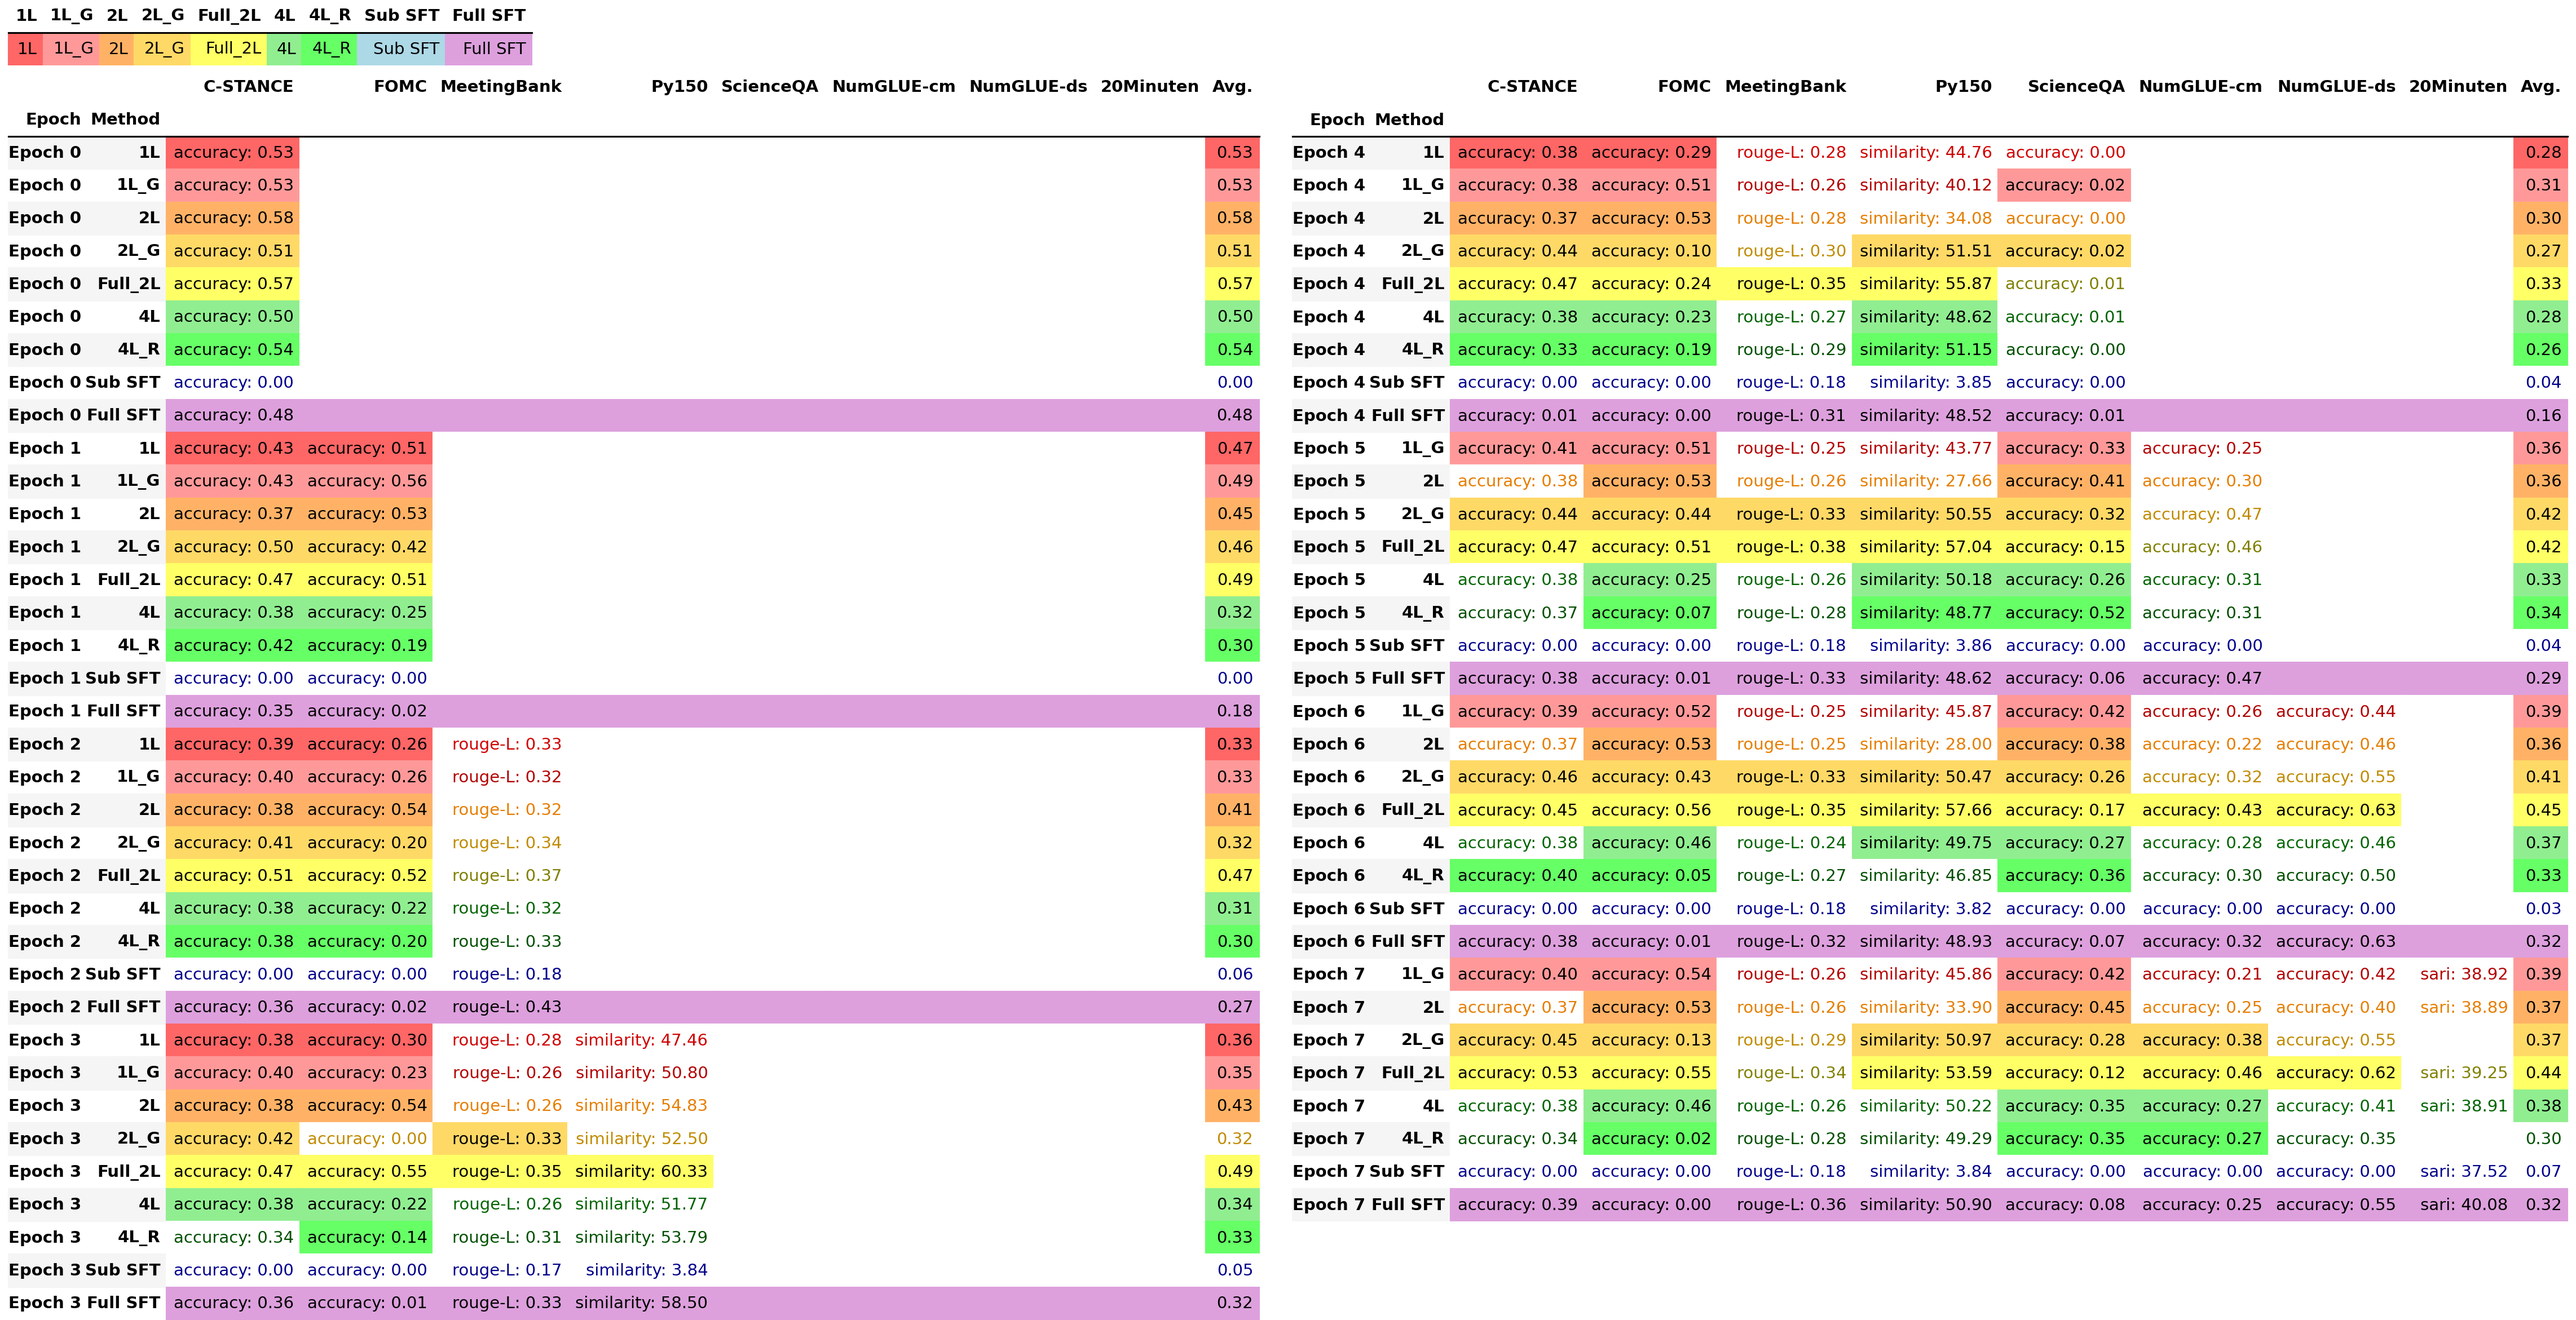
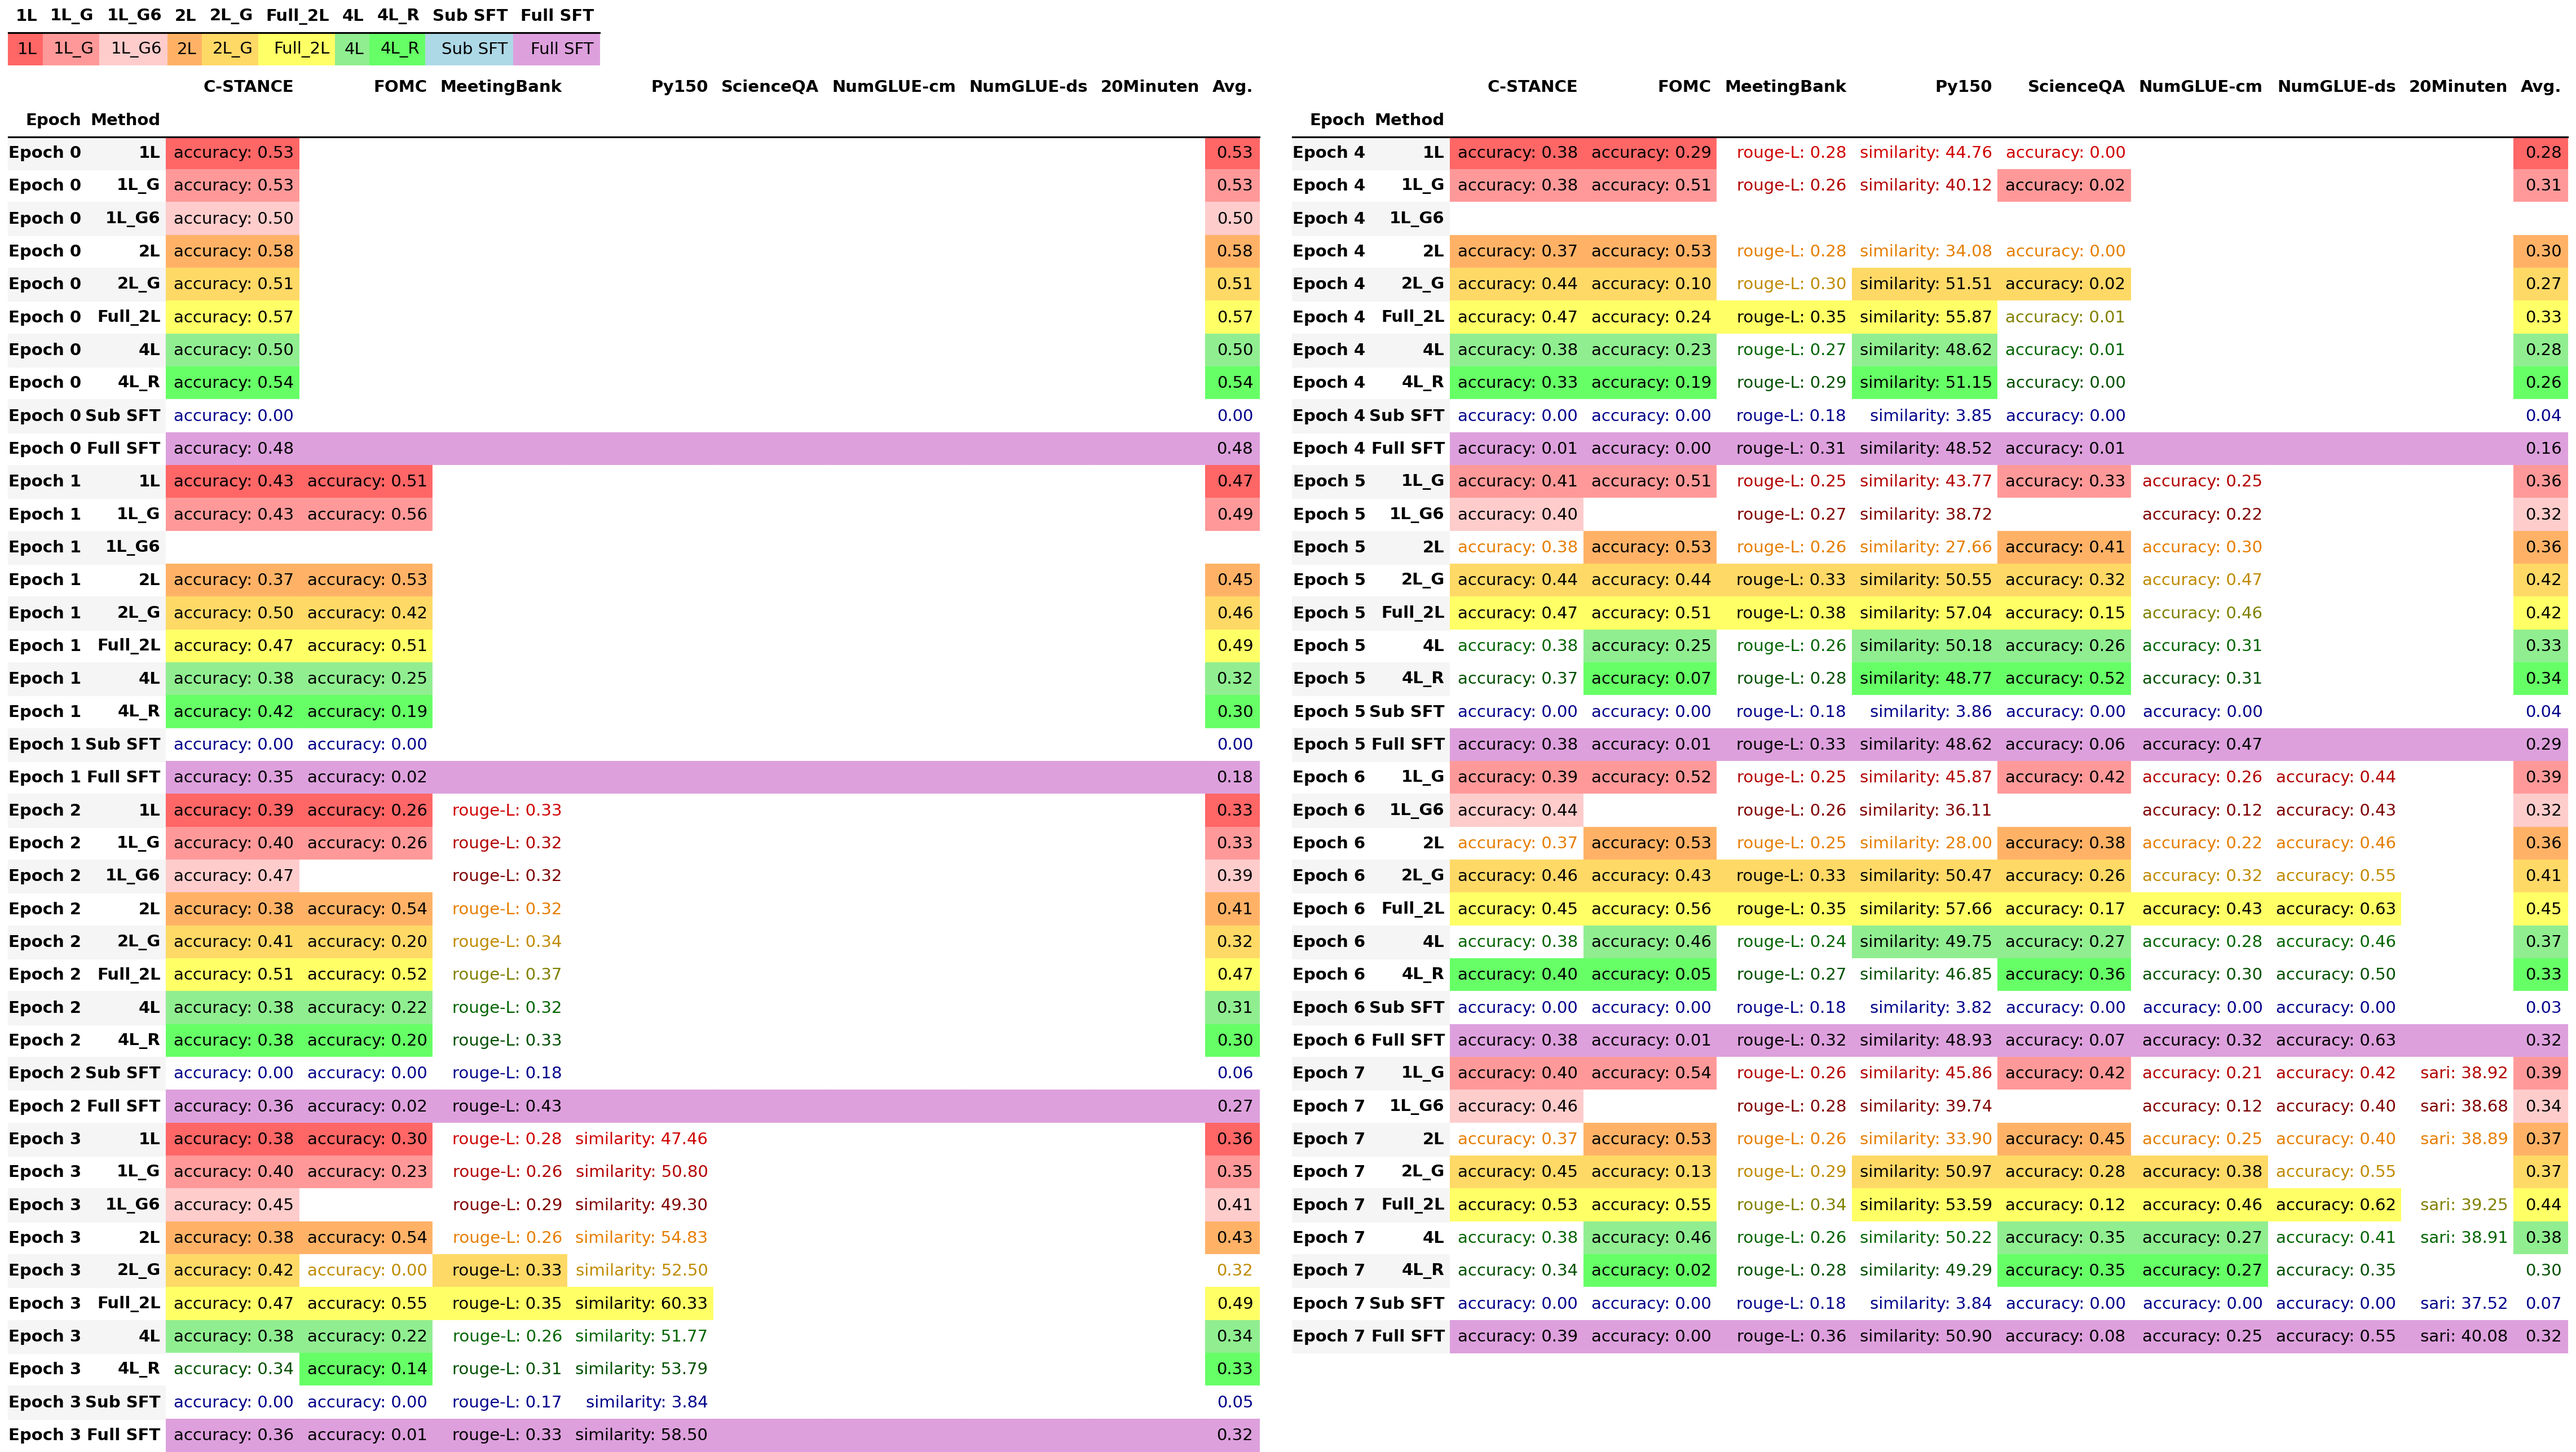
update visualization

Changed region(s): [[0.0, 0.0, 1.0, 0.9974], [0.2798, 0.0312, 0.4663, 0.0935]]

diff --git a/inference/data_process.py b/inference/data_process.py
@@ -16,6 +16,7 @@ import PIL.Image
 file_paths = {
     "1L": "/data/yuzhiyuan/outputs_LLM-CL/Llama-3.2-1B-Instruct/cl/upcycle/newnew/predictions_single/evaluation_matrix.xlsx",
     "1L_G": "/data/yuzhiyuan/outputs_LLM-CL/Llama-3.2-1B-Instruct/cl/upcycle/grouped_1/evaluation_matrix.xlsx",
+    "1L_G6": "/data/yuzhiyuan/outputs_LLM-CL/Llama-3.2-1B-Instruct/cl/upcycle/grouped_1_6tasks_new/evaluation_matrix.xlsx",
     "2L": "/data/yuzhiyuan/outputs_LLM-CL/Llama-3.2-1B-Instruct/cl/upcycle/even_new_stable/predictions_single/evaluation_matrix.xlsx",
     "2L_G": "/data/yuzhiyuan/outputs_LLM-CL/Llama-3.2-1B-Instruct/cl/upcycle/grouped_2/evaluation_matrix.xlsx",
     "Full_2L": "/data/yuzhiyuan/outputs_LLM-CL/Llama-3.2-1B-Instruct/cl/upcycle/even_full/predictions_single/evaluation_matrix.xlsx",
@@ -39,6 +40,7 @@ TASK_ORDER = ["C-STANCE", "FOMC", "MeetingBank", "Py150", "ScienceQA", "NumGLUE-
 METHOD_COLORS = {
     "1L": "#FF6666",       # 浅红
     "1L_G": "#FF9999",     # 更浅红
+    "1L_G6": "#FFCCCC",     # (为1L_G6添加一个颜色，尽管它可能不显示)
     "2L": "#FFB266",       # 橙
     "2L_G": "#FFD966",     # 浅橙
     "Full_2L": "#FFFF66",  # 黄
@@ -51,6 +53,7 @@ METHOD_COLORS = {
 METHOD_FONT_COLORS = {
     "1L": "#D00000",       # 深红
     "1L_G": "#B30000",     # 更深红
+    "1L_G6": "#800000",    # 栗色
     "2L": "#E67E00",       # 深橙
     "2L_G": "#C08B00",     # 赭黄
     "Full_2L": "#808000",  # 橄榄
@@ -356,7 +359,11 @@ def export_to_image(df, output_path):
                 row_data[task] = "\n".join(cell_lines)
                 row_numeric_data[task] = numeric_val 
 
-            if has_data_for_this_method:
+            # ⬇⬇⬇ ******** 这是唯一的修改点 ******** ⬇⬇⬇
+            # 即使'1L_G6'没有数据(has_data_for_this_method=False)，
+            # 也要强制添加空行，以确保对齐。
+            if has_data_for_this_method or method == '1L_G6':
+            # ⬆⬆⬆ ******** 这是唯一的修改点 ******** ⬆⬆⬆
                 index_tuples.append((f"Epoch {checkpoint}", method))
                 data_rows.append(row_data)
                 numeric_rows.append(row_numeric_data) 
@@ -405,25 +412,39 @@ def export_to_image(df, output_path):
     # 导出图例
     dfi.export(legend_styler, buf_legend, max_rows=-1, max_cols=-1, table_conversion='matplotlib', dpi=150)
     
-    # 导出两栏图片
-    dfi.export(styler_col1, buf_col1, max_rows=-1, max_cols=-1, table_conversion='matplotlib', dpi=150)
-    dfi.export(styler_col2, buf_col2, max_rows=-1, max_cols=-1, table_conversion='matplotlib', dpi=150)
-    
-    buf_legend.seek(0)
-    buf_col1.seek(0)
-    buf_col2.seek(0)
-    
-    img_legend = PIL.Image.open(buf_legend)
-    img_col1 = PIL.Image.open(buf_col1)
-    img_col2 = PIL.Image.open(buf_col2)
+    # 导出两栏图片 (增加非空检查)
+    if not df_display_col1.empty:
+        dfi.export(styler_col1, buf_col1, max_rows=-1, max_cols=-1, table_conversion='matplotlib', dpi=150)
+        buf_col1.seek(0)
+        img_col1 = PIL.Image.open(buf_col1)
+    else:
+        img_col1 = PIL.Image.new('RGB', (1,1), (255, 255, 255)) # 创建一个1x1的空白图像
 
+    if not df_display_col2.empty:
+        dfi.export(styler_col2, buf_col2, max_rows=-1, max_cols=-1, table_conversion='matplotlib', dpi=150)
+        buf_col2.seek(0)
+        img_col2 = PIL.Image.open(buf_col2)
+    else:
+        img_col2 = PIL.Image.new('RGB', (1,1), (255, 255, 255)) # 创建一个1x1的空白图像
+
+    buf_legend.seek(0)
+    img_legend = PIL.Image.open(buf_legend)
+    
     # 计算总宽度和高度
     # 留一些边距
     H_PAD = 30 # 水平分隔符宽度
     V_PAD = 10 # 垂直分隔符宽度
 
     max_col_height = max(img_col1.height, img_col2.height)
-    total_width = img_col1.width + H_PAD + img_col2.width
+    
+    # 修正：如果某列为空，宽度设为0
+    width_col1 = img_col1.width if not df_display_col1.empty else 0
+    width_col2 = img_col2.width if not df_display_col2.empty else 0
+    pad_between_cols = H_PAD if (width_col1 > 1 and width_col2 > 1) else 0
+
+    total_width = width_col1 + pad_between_cols + width_col2
+    if total_width <= 1: total_width = img_legend.width # 保证最小宽度
+        
     total_height = img_legend.height + V_PAD + max_col_height
 
     new_img = PIL.Image.new('RGB', (total_width, total_height), (255, 255, 255))
@@ -432,8 +453,10 @@ def export_to_image(df, output_path):
     new_img.paste(img_legend, (0, 0)) # 图例放在顶部左侧
     
     # 粘贴两栏
-    new_img.paste(img_col1, (0, img_legend.height + V_PAD))
-    new_img.paste(img_col2, (img_col1.width + H_PAD, img_legend.height + V_PAD)) 
+    if not df_display_col1.empty:
+        new_img.paste(img_col1, (0, img_legend.height + V_PAD))
+    if not df_display_col2.empty:
+        new_img.paste(img_col2, (width_col1 + pad_between_cols, img_legend.height + V_PAD)) 
     
     new_img.save(output_path)
     print(f"\n✅ 图片已成功导出到: {output_path}")
